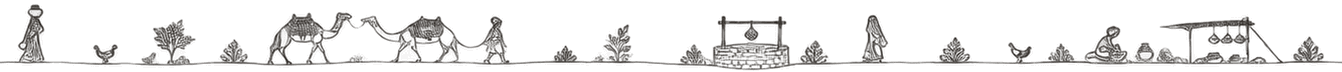
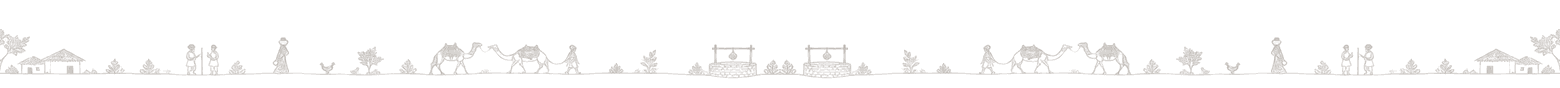
Fix About slider overflow on phones (P0); add ChatGPT's final village border (A) and painting-lady divider (brief 006)
Claude-Session: https://claude.ai/code/session_016VrnJUCz1X8WeTsu16PMMW

Changed region(s): [[0.0, 0.0556, 1.0, 0.9722]]

diff --git a/app/(site)/site.css b/app/(site)/site.css
@@ -645,7 +645,7 @@ p{margin:0}
 .themes-track{display:flex;transition:transform .9s cubic-bezier(.65,0,.35,1)}
 .theme{flex:0 0 100%;display:grid;grid-template-columns:minmax(0,1fr) minmax(0,1fr);gap:clamp(30px,5vw,72px);align-items:center;padding-inline:2px}
 .themes-timer{position:absolute;left:0;right:0;bottom:-14px;height:2px;background:var(--rust);transform-origin:left;animation:slides-run linear forwards}
-@media (max-width:860px){ .theme{grid-template-columns:1fr} .themes-arrows{margin-left:0} }
+@media (max-width:860px){ .theme{grid-template-columns:minmax(0,1fr)} .theme>*{min-width:0} .theme .btn{white-space:normal;max-width:100%;text-align:center} .themes-arrows{margin-left:0} }
 @media (prefers-reduced-motion:reduce){ .themes-track{transition:none} }
 @media (max-width:420px){ .nowstrip .nw-when{display:none} }
 
